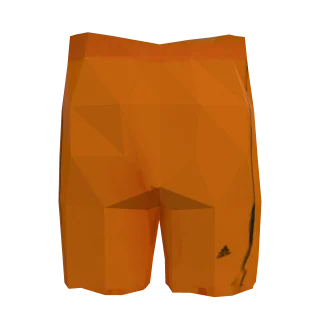
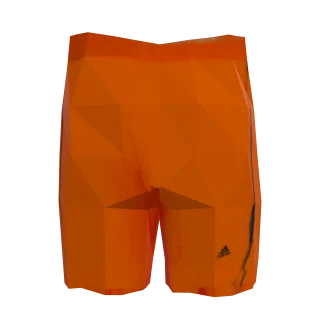
Hue turn per garment, fitted from the photo: 014 navy and 032 maroon again
fabric.ts applies one colour matrix per garment (hue turned around the grey
axis, then saturation), lit and self-lit alike; tone.py --fit sets the turn from
the photo's Lab hue where both colours have one (chroma 8 or more, up to 30
degrees) and lets the saturation go to 0.4 where the accents stay at the
photo's. Colour distance to the photo, front on stage: 014 10.7 -> 2.5,
032 14.7 -> 4.7, 034 5.5 -> 0.1, 015 8.9 -> 2.7; median on the 38 2.6 -> 1.9.

Claude-Session: https://claude.ai/code/session_01VcexSRMw9qDtqMaKRCsYnW

diff --git a/site/fabric.ts b/site/fabric.ts
@@ -2,7 +2,7 @@
 // (thumbnail-render.ts): a thumbnail drawn with other light would not look like the piece on the mannequin.
 import * as THREE from 'three';
 import { RoomEnvironment } from 'three/addons/environments/RoomEnvironment.js';
-import { SATURATION, TONE } from './garment-tones';
+import { HUE, SATURATION, TONE } from './garment-tones';
 
 /** One roughness for every garment: matte fabric, without the plastic shine of the generated maps. */
 export const FABRIC_ROUGHNESS = 0.9;
@@ -20,27 +20,43 @@ export function matteFabric(model: THREE.Object3D, id: string): void {
       material.metalness = 0;
       // front brightness close to the thrift store photo: the 3D generator painted some textures darker, others lighter
       material.color.multiplyScalar(TONE[id] ?? 1);
-      saturate(material, SATURATION[id] ?? 1);
+      recolour(material, SATURATION[id] ?? 1, HUE[id] ?? 0);
     }
   });
 }
 
-const LUMA = 'vec3(.2126, .7152, .0722)';
+const LUMA = [.2126, .7152, .0722];
 /**
- * Colour saturation of the texture, lit and self-lit alike: the 3D generator painted some textures more saturated than
- * the photo (032 purple where the photo is maroon), and the gain that brings a dark garment to the photo's brightness
- * raises its chroma with it. 1 leaves the shader as it is.
+ * Colour matrix of the texture, lit and self-lit alike: hue turned by `hue` degrees around the grey axis, then the
+ * saturation mixed towards the luminance by `saturation`. The 3D generator painted some textures more saturated or
+ * off in hue against the photo (032 purple where the photo is maroon), and the gain that brings a dark garment to the
+ * photo's brightness raises its chroma with it. Hue 0 and saturation 1 leave the shader as it is.
  */
-function saturate(material: THREE.MeshStandardMaterial, amount: number): void {
-  if (Math.abs(amount - 1) < .005) return;
-  const k = amount.toFixed(3);
-  const mix = (v: string) => `${v} = mix(vec3(dot(${v}, ${LUMA})), ${v}, ${k});`;
+export function colourMatrix(saturation: number, hue: number): number[] {
+  const t = hue * Math.PI / 180, c = Math.cos(t), s = Math.sin(t), k = 1 / 3, q = Math.sqrt(k);
+  // rotation around the (1, 1, 1) axis (Rodrigues), row-major
+  const r = [
+    c + (1 - c) * k, (1 - c) * k - q * s, (1 - c) * k + q * s,
+    (1 - c) * k + q * s, c + (1 - c) * k, (1 - c) * k - q * s,
+    (1 - c) * k - q * s, (1 - c) * k + q * s, c + (1 - c) * k,
+  ];
+  // saturation: out = luma + saturation * (in - luma), row-major
+  const m = [0, 1, 2].flatMap(row => [0, 1, 2].map(col => (1 - saturation) * LUMA[col] + (row === col ? saturation : 0)));
+  return [0, 1, 2].flatMap(row => [0, 1, 2].map(col => [0, 1, 2].reduce((sum, x) => sum + m[row * 3 + x] * r[x * 3 + col], 0)));
+}
+
+function recolour(material: THREE.MeshStandardMaterial, saturation: number, hue: number): void {
+  if (Math.abs(saturation - 1) < .005 && Math.abs(hue) < .5) return;
+  const m = colourMatrix(saturation, hue);
+  // GLSL mat3 takes columns
+  const glsl = `mat3(${[0, 1, 2].flatMap(col => [0, 1, 2].map(row => m[row * 3 + col].toFixed(4))).join(', ')})`;
+  const apply = (v: string) => `${v} = ${glsl} * ${v};`;
   material.onBeforeCompile = shader => {
     shader.fragmentShader = shader.fragmentShader
-      .replace('#include <map_fragment>', `#include <map_fragment>\n${mix('diffuseColor.rgb')}`)
-      .replace('#include <emissivemap_fragment>', `#include <emissivemap_fragment>\n${mix('totalEmissiveRadiance')}`);
+      .replace('#include <map_fragment>', `#include <map_fragment>\n${apply('diffuseColor.rgb')}`)
+      .replace('#include <emissivemap_fragment>', `#include <emissivemap_fragment>\n${apply('totalEmissiveRadiance')}`);
   };
-  material.customProgramCacheKey = () => `saturation ${k}`;
+  material.customProgramCacheKey = () => `recolour ${glsl}`;
 }
 
 /** Light for the garments; returns the key light, which turns with the camera. */

diff --git a/site/garment-tones.ts b/site/garment-tones.ts
@@ -1,68 +1,83 @@
 // Colour gain per garment (multiplies the material colour): the front brightness on stage stays close to the
 // thrift-shop photo's. Written by tools/visual-qa/tone.py --fit; the `tone` measure of tools/visual-qa/measure.py guards it.
 export const TONE: Record<string, number> = {
-  '001': 2.101,
+  '001': 2.094,
   '002': 1.671,
   '003': 0.959,
-  '004': 1.500,
-  '005': 2.122,
-  '006': 1.260,
+  '004': 1.396,
+  '005': 2.138,
+  '006': 1.301,
   '007': 1.135,
   '008': 1.090,
-  '009': 0.769,
+  '009': 0.775,
   '010': 1.188,
-  '011': 1.813,
-  '012': 2.539,
-  '013': 1.471,
-  '014': 2.842,
-  '015': 0.433,
-  '016': 1.006,
+  '011': 1.809,
+  '012': 2.488,
+  '013': 1.529,
+  '014': 2.754,
+  '015': 0.503,
+  '016': 1.007,
   '017': 0.947,
-  '018': 1.477,
+  '018': 1.473,
   '019': 2.572,
-  '020': 3.527,
-  '021': 2.507,
-  '022': 1.938,
-  '023': 1.113,
-  '024': 1.952,
+  '020': 3.578,
+  '021': 2.498,
+  '022': 1.937,
+  '023': 1.109,
+  '024': 1.930,
   '025': 0.897,
   '026': 1.033,
   '027': 0.916,
-  '028': 1.080,
-  '029': 1.389,
+  '028': 1.081,
+  '029': 1.349,
   '030': 0.512,
-  '031': 1.866,
-  '032': 3.065,
+  '031': 1.897,
+  '032': 2.725,
   '033': 0.930,
-  '034': 1.272,
-  '035': 1.317,
-  '036': 1.053,
-  '037': 3.076,
-  '038': 1.592,
+  '034': 1.334,
+  '035': 1.299,
+  '036': 1.051,
+  '037': 3.086,
+  '038': 1.582,
 };
 
 // Colour saturation per garment (1 = the texture's): written by tools/visual-qa/tone.py --fit from the chroma of the photo.
 export const SATURATION: Record<string, number> = {
   '001': 0.600,
   '002': 0.600,
-  '004': 0.600,
-  '005': 0.600,
-  '006': 0.600,
+  '004': 0.506,
+  '005': 0.468,
+  '006': 0.400,
   '007': 0.748,
-  '009': 0.914,
-  '012': 0.600,
-  '013': 0.600,
-  '014': 0.600,
-  '015': 1.294,
-  '016': 0.917,
+  '009': 0.906,
+  '012': 0.433,
+  '013': 0.525,
+  '014': 0.400,
+  '015': 1.232,
+  '016': 0.916,
   '018': 0.769,
-  '022': 0.771,
-  '023': 0.687,
-  '024': 0.600,
-  '029': 0.600,
-  '031': 0.816,
-  '032': 0.600,
-  '035': 0.931,
+  '022': 0.800,
+  '023': 0.714,
+  '024': 0.588,
+  '029': 0.553,
+  '031': 0.782,
+  '032': 0.550,
+  '034': 1.011,
+  '035': 0.908,
   '036': 0.600,
-  '038': 0.895,
+  '038': 0.887,
+};
+
+// Hue turn per garment in degrees (0 = the texture's): written by tools/visual-qa/tone.py --fit from the photo's Lab hue.
+export const HUE: Record<string, number> = {
+  '004': -4.800,
+  '012': -3.500,
+  '013': 2.200,
+  '014': -2.700,
+  '015': -4.800,
+  '023': -4.700,
+  '024': -7.700,
+  '029': -2.500,
+  '032': 12.800,
+  '034': 13.300,
 };

diff --git a/tools/visual-qa/tone.py b/tools/visual-qa/tone.py
@@ -14,7 +14,8 @@ from measure import ROOT, read_cls, TOP, BOTTOM, luminance, photo_brightness
 
 FILE = f'{ROOT}/site/garment-tones.ts'
 GAMMA = 1.6             # screen brightness ~ gain^k, k measured from 0.45 (light knit) to 1.4 (dark denim)
-SATURATION = (.6, 1.3)
+SATURATION = (.4, 1.3)
+HUE = (-30, 30)          # degrees around the grey axis (site/fabric.ts colourMatrix)
 CHROMA_MIN = 8          # below this chroma (near grey, black, white) the hue is noise: saturation stays at 1
 GAIN = (.35, 4)       # ceiling raised 13/11 with the self light carrying the gain: 020, 032 and 037 stayed 16-30% dark at 2.5
 
@@ -27,9 +28,9 @@ def lab(rgb):
 
 
 def chroma(rgb):
-    """Chroma of the garment's median colour, and the 95th percentile of its pixels' chroma (the strongest accents)."""
-    L = lab(rgb)
-    return float(np.hypot(*np.median(L, 0)[1:])), float(np.percentile(np.hypot(L[:, 1], L[:, 2]), 95))
+    """Chroma and hue (degrees) of the garment's median colour, and the 95th percentile of its pixels' chroma (the strongest accents)."""
+    L = lab(rgb); a, b = np.median(L, 0)[1:]
+    return float(np.hypot(a, b)), float(np.percentile(np.hypot(L[:, 1], L[:, 2]), 95)), float(np.degrees(np.arctan2(b, a)))
 
 
 def on_site(folder, pid):
@@ -50,24 +51,26 @@ def photo_chroma(pid):
 
 def load():
     text = open(FILE, encoding='utf8').read() if os.path.exists(FILE) else ''
-    tables = re.split(r'export const SATURATION', text)
-    read = lambda t: {k: float(v) for k, v in re.findall(r"'(\d{3})': ([\d.]+)", t)}
-    return read(tables[0]), read(tables[1]) if len(tables) > 1 else {}
+    tables = re.split(r'export const (?:SATURATION|HUE)', text) + ['', '']
+    read = lambda t: {k: float(v) for k, v in re.findall(r"'(\d{3})': (-?[\d.]+)", t)}
+    return read(tables[0]), read(tables[1]), read(tables[2])
 
 
-def save(g, sat):
+def save(g, sat, hue):
     table = lambda d: ''.join(f"  '{k}': {v:.3f},\n" for k, v in sorted(d.items()))
     open(FILE, 'w', encoding='utf8').write(
         '// Colour gain per garment (multiplies the material colour): the front brightness on stage stays close to the\n'
         "// thrift-shop photo's. Written by tools/visual-qa/tone.py --fit; the `tone` measure of tools/visual-qa/measure.py guards it.\n"
         f'export const TONE: Record<string, number> = {{\n{table(g)}}};\n'
         "\n// Colour saturation per garment (1 = the texture's): written by tools/visual-qa/tone.py --fit from the chroma of the photo.\n"
-        f'export const SATURATION: Record<string, number> = {{\n{table(sat)}}};\n')
+        f'export const SATURATION: Record<string, number> = {{\n{table(sat)}}};\n'
+        "\n// Hue turn per garment in degrees (0 = the texture's): written by tools/visual-qa/tone.py --fit from the photo's Lab hue.\n"
+        f'export const HUE: Record<string, number> = {{\n{table(hue)}}};\n')
 
 
 if __name__ == '__main__':
     folder = sys.argv[1]
-    g, sat = load()
+    g, sat, hue = load()
     for i in range(1, 39):
         pid = f'{i:03d}'; site = on_site(folder, pid)
         if site is None: continue
@@ -75,12 +78,16 @@ if __name__ == '__main__':
         f, fc = photo_brightness(pid), photo_chroma(pid)
         gain, k = g.get(pid, 1.0), sat.get(pid, 1.0)
         new = float(np.clip(gain * (f / s) ** GAMMA, *GAIN))
-        (c, c95), (fc, fc95) = c, fc
+        (c, c95, h), (fc, fc95, fh) = c, fc
+        turn = hue.get(pid, 0.0)
+        # hue only where both colours have one: on near-grey garments it is noise
+        newh = float(np.clip(turn + (fh - h + 180) % 360 - 180, *HUE)) if min(c, fc) >= CHROMA_MIN else turn
         newk = float(np.clip(k * fc / c, *SATURATION)) if max(c, fc) >= CHROMA_MIN and c > 0 else k
         # the strongest accents never end below the photo's: a navy body must not drain the orange pocket of 021
         if c95 > 0 and newk < 1: newk = float(np.clip(max(newk, k * fc95 / c95), SATURATION[0], 1))
         print(f'{pid} photo {f:5.1f} site {s:5.1f} {100 * (s / f - 1):+4.0f}%  gain {gain:.3f} → {new:.3f}'
-              f'  chroma {fc:5.1f} site {c:5.1f} accents {fc95:5.1f} site {c95:5.1f}  saturation {k:.3f} → {newk:.3f}')
-        g[pid], sat[pid] = new, newk
+              f'  chroma {fc:5.1f} site {c:5.1f} accents {fc95:5.1f} site {c95:5.1f}  saturation {k:.3f} → {newk:.3f}  hue {turn:+.1f} → {newh:+.1f}')
+        g[pid], sat[pid], hue[pid] = new, newk, newh
     if '--fit' in sys.argv:
-        save({k: v for k, v in g.items() if abs(v - 1) > .005}, {k: v for k, v in sat.items() if abs(v - 1) > .005})
+        save({k: v for k, v in g.items() if abs(v - 1) > .005}, {k: v for k, v in sat.items() if abs(v - 1) > .005},
+             {k: round(v, 1) for k, v in hue.items() if abs(v) >= 2})
